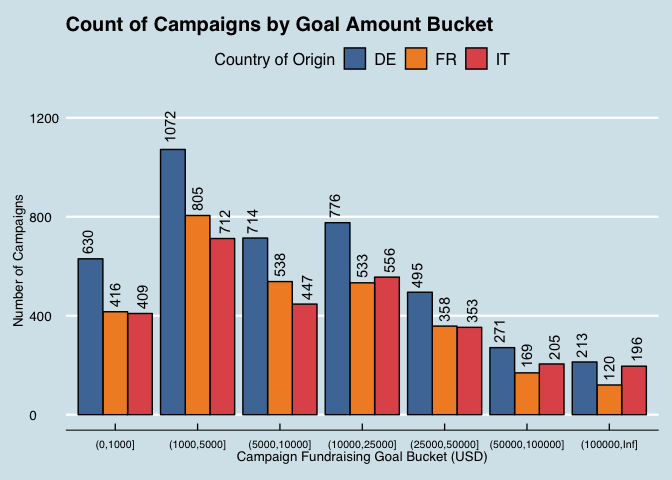
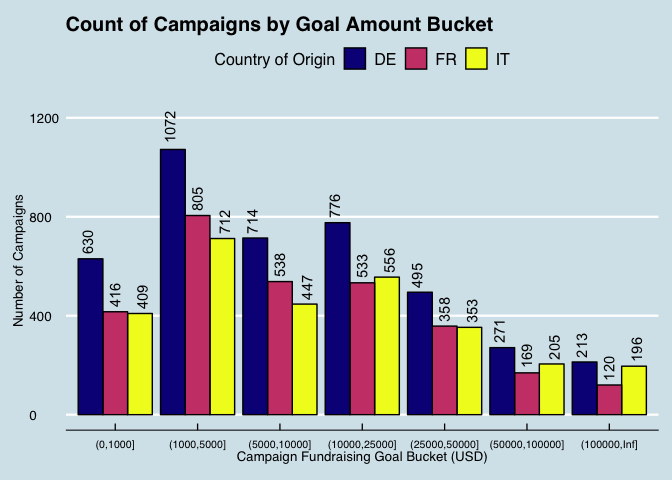
change color palette back to viridis and re-order sections

diff --git a/eda-and-visualization/eda_and_visualization.md b/eda-and-visualization/eda_and_visualization.md
@@ -1,7 +1,7 @@
 Exploratory Data Analysis (EDA) and Visualization
 ================
 Paul Jeffries
-05 September, 2018
+06 September, 2018
 
 -   [Introduction](#introduction)
     -   [Setup](#setup)
@@ -10,12 +10,10 @@ Paul Jeffries
     -   [Exploring and Cleaning the Data](#exploring-and-cleaning-the-data)
 -   [Summary Statistics](#summary-statistics)
     -   [High-Level Summary Stats](#high-level-summary-stats)
--   [Histograms](#histograms)
-    -   [Simple Multi-Category Histogram](#simple-multi-category-histogram)
-    -   [Multi-Category Histogram with Custom-Delimited-Buckets](#multi-category-histogram-with-custom-delimited-buckets)
--   [Density Plots](#density-plots)
-    -   [2 Probability Density Functions (PDFs) Compared](#probability-density-functions-pdfs-compared)
-    -   [3 PDFs Compared w/ Facets](#pdfs-compared-w-facets)
+-   [Bespoke Visualizations](#bespoke-visualizations)
+    -   [General Comments and Best Practices](#general-comments-and-best-practices)
+    -   [Histograms](#histograms)
+    -   [Density Plots](#density-plots)
 
 **NOTE: this is an early work in progress. Check back shortly for new additions**
 
@@ -156,15 +154,24 @@ psych::describe(x = base_df, IQR = TRUE, omit = TRUE)
     ## usd_pledged_real  82.00 11733.81     149.15       4019.82
     ## usd_goal_real     77.83  7011.92    1892.59      14000.00
 
+Bespoke Visualizations
+======================
+
+General Comments and Best Practices
+-----------------------------------
+
+### Dealing with Color-Blindness
+
+It is helpful to remember when crafting any visualization that one's audience might have some form of color blindness. Luckily, there are many handy ways to deal with this when working with the creation of custom graphics. In the various ggplots below, you will notice my use of the [viridis packages](https://cran.r-project.org/web/packages/viridis/vignettes/intro-to-viridis.html), which is a visually appealing set of color palettes that have the added benefit of being easier to read for those who are color blind. While this is my personally preferred method of dealing with color-blindness when creating visuals, one might also consider options like **scale\_color\_tableau()** and **scale\_color\_colorblind()**, both of which are from the [ggthemes package](https://cran.r-project.org/web/packages/ggthemes/ggthemes.pdf).
+
 Histograms
-==========
+----------
 
 Having gone through the basic EDA steps above, by this point one might have a variety of variables, relationships, or trends worthy of further exploration. The sections below walk through some visualizations that may prove useful in drilling down deeper into the data once the highest-level EDA is already taken care of.
 
 For the histogram exemplars below, imagine that our basic EDA lead us to want to dive deeper into the question of **"what sort or relationships, trends, and/or distributional intricacies, if any, can we observe by examining campaign fundraising goals by country of origin?"**
 
-Simple Multi-Category Histogram
--------------------------------
+### Simple Multi-Category Histogram
 
 ``` r
 base_df %>%
@@ -181,7 +188,7 @@ base_df %>%
     # specifying the histogram and the bin count
     geom_histogram(color = "black", position="dodge", bins=20) +
     # picking a colorblind-friendly color scheme and theme
-    ggthemes::scale_fill_tableau() +
+    viridis::scale_fill_viridis(discrete=TRUE, option="plasma") +
     ggthemes::theme_economist() +
     # setting legend aesthetic details 
     theme(
@@ -200,8 +207,7 @@ base_df %>%
 
 ![](eda_and_visualization_files/figure-markdown_github/unnamed-chunk-8-1.png)
 
-Multi-Category Histogram with Custom-Delimited-Buckets
-------------------------------------------------------
+### Multi-Category Histogram with Custom-Delimited-Buckets
 
 Perhaps we are now beginning to develop an intuition as to which buckets are most key. We might then wish to build a histogram with custom-delimited-buckets, as done below.
 
@@ -232,7 +238,7 @@ base_df %>%
       # takes care of the precise labeling; hjust/vjust and angle need to be set visually
       geom_text(aes(label=n, group=country), hjust=-0.20, angle=90, position = position_dodge(width=1)) +
       # picking a colorblind-friendly color scheme and theme
-      ggthemes::scale_fill_tableau() +
+      viridis::scale_fill_viridis(discrete=TRUE, option="plasma") +
       ggthemes::theme_economist() +
       # custom axis limits; for this kind of chart I prefer to set these manually
       scale_y_continuous(limits = c(0, 1250)) +
@@ -255,12 +261,11 @@ base_df %>%
 ![](eda_and_visualization_files/figure-markdown_github/unnamed-chunk-9-1.png)
 
 Density Plots
-=============
+-------------
 
 There are times when visually one might prefer a density plot to a histogram, but in almost all cases they serve as substitutionary visualizatins. I find the one use case where density charts are particularly marginally useful as compared to histograms is when you want to compare distributional overlapping or deviation.
 
-2 Probability Density Functions (PDFs) Compared
------------------------------------------------
+### 2 Probability Density Functions (PDFs) Compared
 
 ``` r
 base_df %>%
@@ -277,7 +282,7 @@ base_df %>%
     # specifying the density plot, alpha modulates translucency 
     geom_density(color = "black", alpha = 0.8) +
     # picking a colorblind-friendly color scheme and theme
-    ggthemes::scale_fill_tableau() +
+    viridis::scale_fill_viridis(discrete=TRUE, option="plasma") +
     ggthemes::theme_economist() +
     # setting legend aesthetic details
     theme(
@@ -296,8 +301,7 @@ base_df %>%
 
 ![](eda_and_visualization_files/figure-markdown_github/unnamed-chunk-10-1.png)
 
-3 PDFs Compared w/ Facets
--------------------------
+### 3 PDFs Compared w/ Facets
 
 ``` r
 base_df %>%
@@ -317,7 +321,7 @@ base_df %>%
     # facet wraps to show one pane per state
     facet_wrap(~state) +
     # picking a colorblind-friendly color scheme and theme
-    ggthemes::scale_fill_tableau() +
+    viridis::scale_fill_viridis(discrete=TRUE, option="plasma") +
     ggthemes::theme_economist() +
     # setting legend aesthetic details
     theme(
